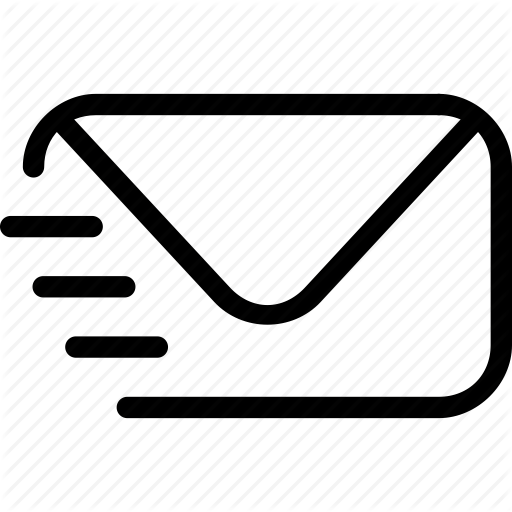
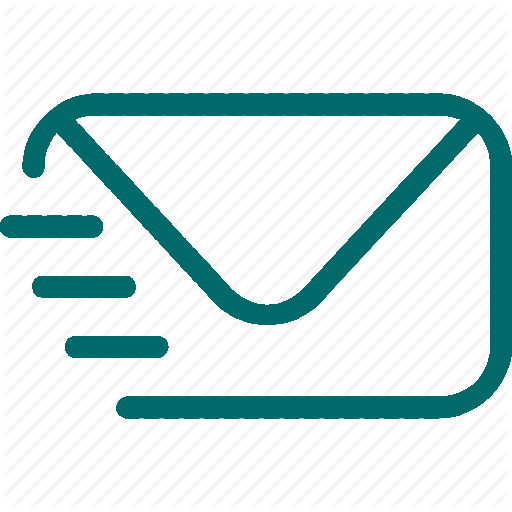
add initial styles

diff --git a/src/app/pages/chat-page/chat-page.component.scss b/src/app/pages/chat-page/chat-page.component.scss
@@ -1,3 +1,5 @@
+@import '../../../sass/abstracts/_variables.scss';
+
 .chat-container {
   display: flex;
   flex-direction: column;
@@ -7,16 +9,30 @@
   .chat-header {
     text-align: center;
     height: 10vh;
+    border-bottom: 3px solid $primary-color;
+    border-radius: 5px;
   }
 
   .chat-typer {
-    height: 8vh;
+    height: 6vh;
+    margin: 5px;
+    margin-bottom: 10px;
     display:flex;
     justify-content: space-around
   }
 
   .chat-typer input {
+    border: none;
+    background: $primary-color;
     width: 80%;
+    border-radius: 25px;
+    padding-left: 10px;
+    outline: none;
+  }
+
+  .chat-typer a {
+    width: 20%;
+    text-align: center;
   }
 
   .chat-typer a img {

diff --git a/src/sass/base/_reset.scss b/src/sass/base/_reset.scss
@@ -9,3 +9,8 @@ body {
   margin: 0;
   height: 0;
 }
+
+::placeholder { /* Chrome, Firefox, Opera, Safari 10.1+ */
+    color: white;
+    opacity: 1; /* Firefox */
+}

diff --git a/src/sass/base/_typography.scss b/src/sass/base/_typography.scss
@@ -5,7 +5,9 @@ body {
   line-height: 147%;
 }
 
-h1 {}
+h1 {
+  color: $primary-color;
+}
 
 h2 {}
 

diff --git a/src/sass/abstracts/_variables.scss b/src/sass/abstracts/_variables.scss
@@ -1,0 +1,1 @@
+$primary-color: rgb(0, 106, 106);
